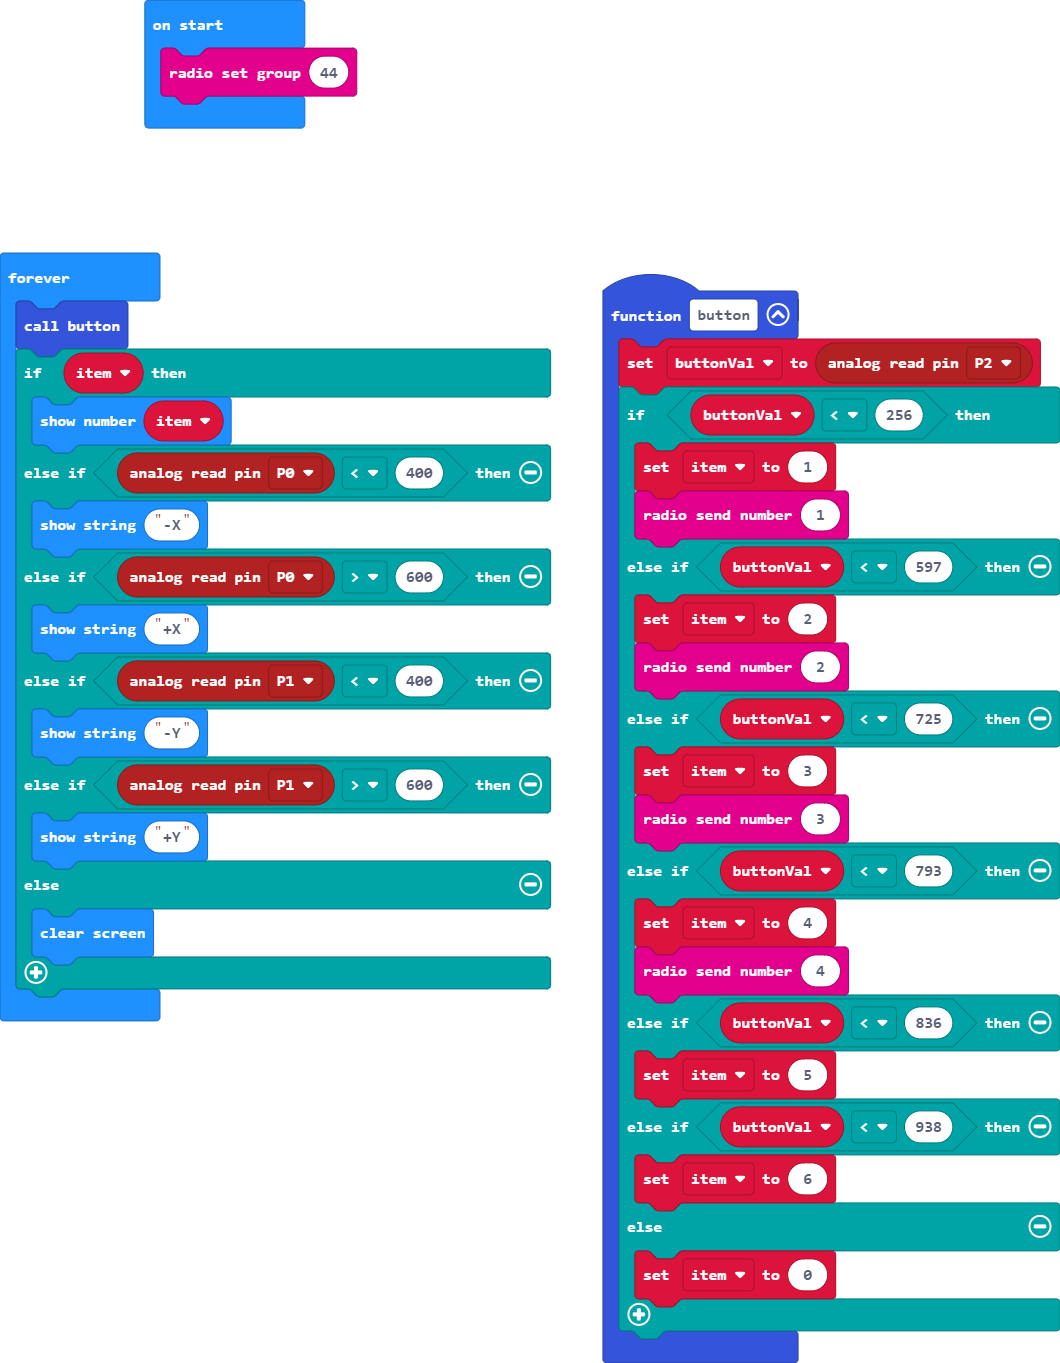
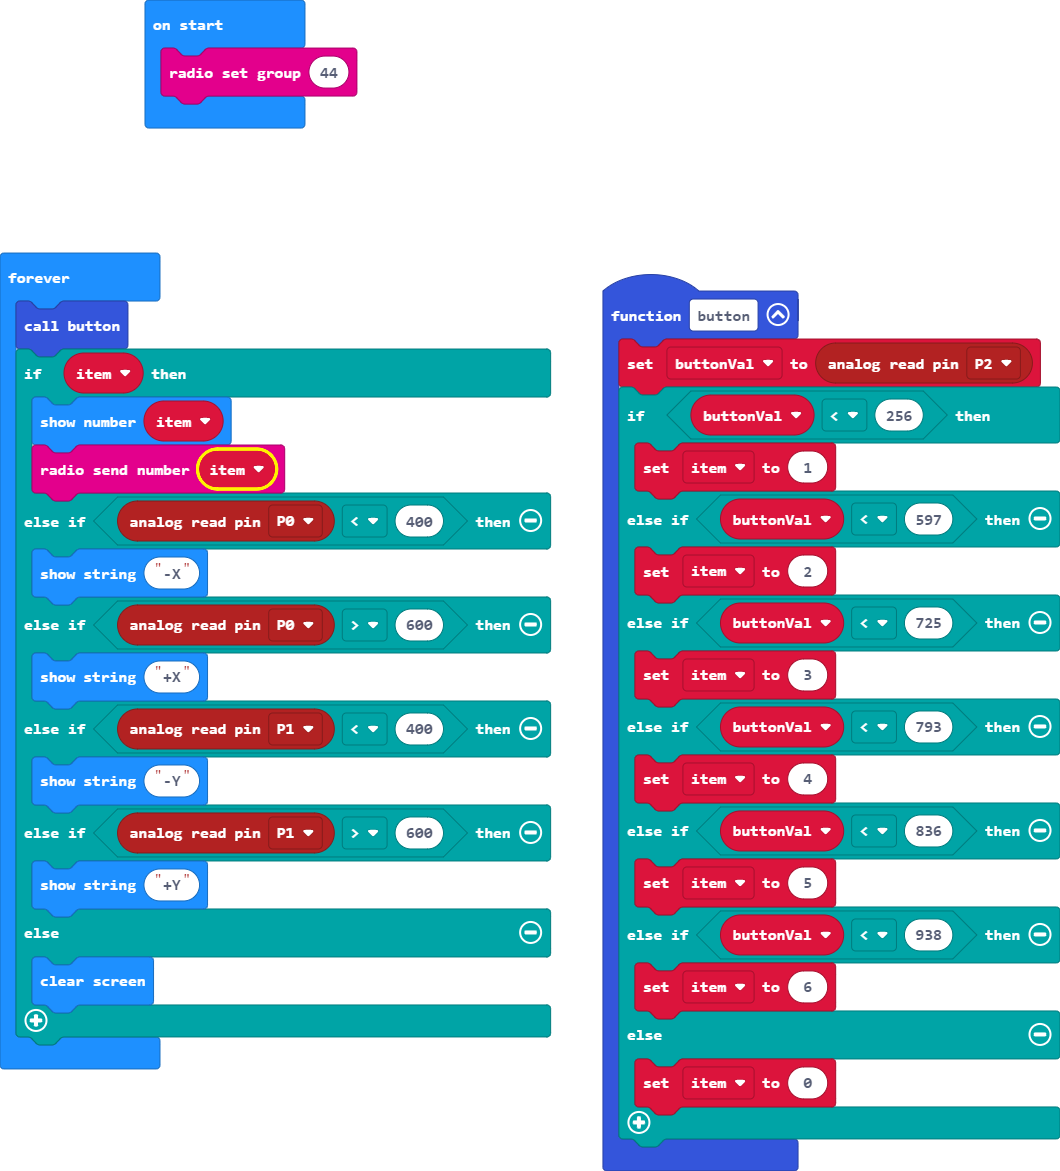
radiosend updated

diff --git a/main.ts b/main.ts
@@ -2,16 +2,12 @@ function button () {
     buttonVal = pins.analogReadPin(AnalogPin.P2)
     if (buttonVal < 256) {
         item = 1
-        radio.sendNumber(1)
     } else if (buttonVal < 597) {
         item = 2
-        radio.sendNumber(2)
     } else if (buttonVal < 725) {
         item = 3
-        radio.sendNumber(3)
     } else if (buttonVal < 793) {
         item = 4
-        radio.sendNumber(4)
     } else if (buttonVal < 836) {
         item = 5
     } else if (buttonVal < 938) {
@@ -27,6 +23,7 @@ basic.forever(function () {
     button()
     if (item) {
         basic.showNumber(item)
+        radio.sendNumber(item)
     } else if (pins.analogReadPin(AnalogPin.P0) < 400) {
         basic.showString("-X")
     } else if (pins.analogReadPin(AnalogPin.P0) > 600) {
